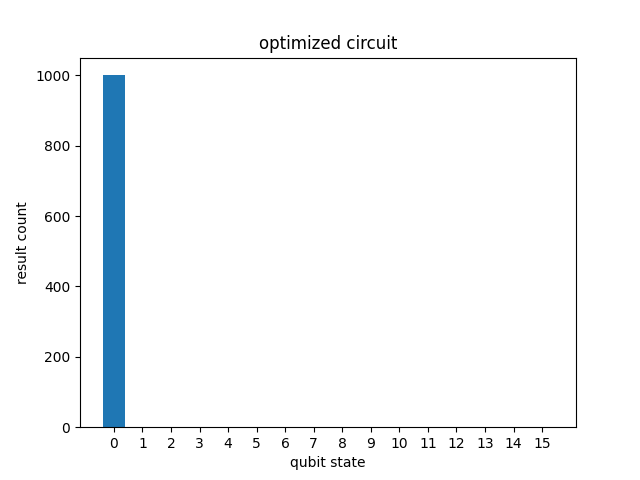
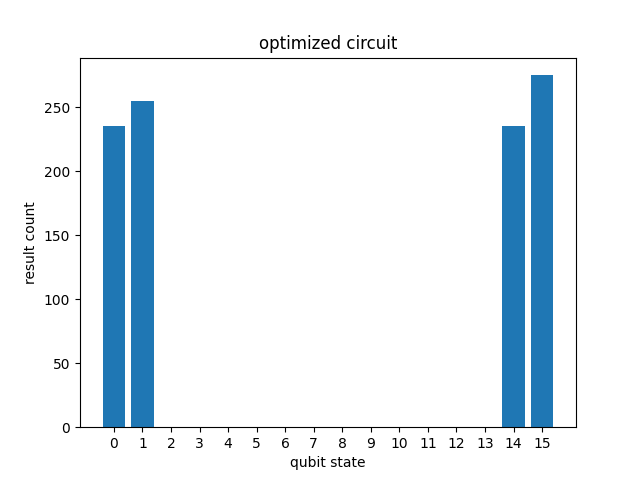
fix template f

diff --git a/transformer.py b/transformer.py
@@ -47,11 +47,11 @@ def merge_flip_cnot(circuit):
     for operation in cnot_gates.values():
         if operation is not None:
             opt_circuit.append(operation)
-
+    print("First I flip all cnot gates (template e) in the circuit:\n", opt_circuit)
     final_circuit = Circuit()
     # after flip all CX gates in the template, now we use template b (cancel two adjacent H gates) to optimize
     opt_circuit = cancel_adj_h(opt_circuit)
-
+    print("Then I cancel all adjacent H gates in the circuit:\n", opt_circuit)
     # merge all cnot gate which have same control to 1 CXXX gate
     cnot_gates = {}
     for moment in opt_circuit:
@@ -300,11 +300,20 @@ def reverse_cnot_with_hgate(circuit):
                     gates_by_qubit[control] = ops2
 
     max_len = max(len(v) for v in gates_by_qubit.values())
+    two_qb_gate = []
     for i in range(max_len):
         for key in gates_by_qubit:
-            values = gates_by_qubit[key]
-            if i < len(values):
-                opt_circuit.append(values[i])
+            opers = gates_by_qubit[key]
+            if i < len(opers):
+                op = opers[i]
+                if len(op.qubits) == 2:
+                    if op in two_qb_gate:
+                        two_qb_gate.remove(op)
+                    else:
+                        two_qb_gate.append(op)
+                        opt_circuit.append(op)
+                else:
+                    opt_circuit.append(op)
 
     return opt_circuit
 

diff --git a/main.py b/main.py
@@ -5,17 +5,16 @@ from cirq import *
 
 
 if __name__ == '__main__':
-    simple_test('a')
-    simple_test('b')
-    simple_test('c')
-    simple_test('d')
-    simple_test('e')
-    simple_test('f')
+    # simple_test('b')
+    # simple_test('c')
+    # simple_test('d')
+    # simple_test('e')
+    # simple_test('f')
 
     qubits = [LineQubit(i) for i in range(4)]
-    origin = generate_random_circuit(qubits, 6, 'd')
-    print(origin)
-    opt = two_cx_to_cxx(origin)
-    print(opt)
+    origin = generate_random_circuit(qubits, 10, 'a')
+    print("Origin circuit:\n", origin)
+    opt = merge_flip_cnot(origin)
+    print("Optimized circuit:\n", opt)
     simulator_test(origin, opt)
 
